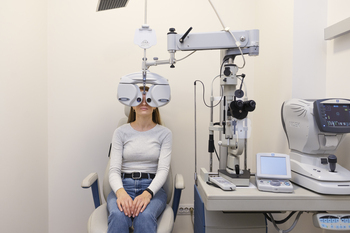
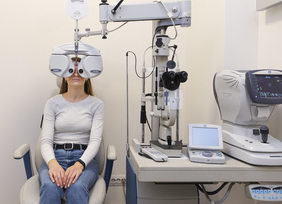
creating media-queries for 576px,768px, and 1200px

diff --git a/pages/index.html b/pages/index.html
@@ -49,16 +49,25 @@
                 </div>
             </div>
         </nav>
+        <!-- Start: Value proposition -->
         <div class="row m-0" id="valueProp-rectangle-1">
-            <div class="col align-self-end">
-                <h3 class="mt-auto" id="valueProp-mainTitle">
+            <div class="col col-12 col-lg-6 order-5 order-lg-first align-self-end ">
+                <h3 id="valueProp-mainTitle">
                     Tu visión, en manos <br />
                     de expertos
                 </h3>
             </div>
+            <div id="valueProp-img-container"
+                class="col col-12 col-lg-6 order-1 order-lg-last d-flex justify-content-center justify-content-lg-start">
+                <img id="valueProp-img-1" class="img-fluid" src="../assets/img/portrait-brother-sister-with-spe.jpg"
+                    alt="Adolescentes con gafas posando delante de un estante de gafas">
+                <img id="valueProp-img-2" class="img-fluid" src="../assets/img/close-up-doctor-checking-woman-e.jpg"
+                    alt="Mujer de piel blanca revisando el ojo de una mujer de piel negra con una maquina de oftalmología">
+            </div>
+
         </div>
         <div class="row m-0" id="valueProp-rectangle-2">
-            <div class="col col-sm-12">
+            <div class="col col-sm-12 d-flex justify-content-center justify-content-lg-start ">
                 <div id="valueProp-explanation">
                     <p>Desde tu cuidado, hasta un buen look, nosotros te ayudaremos a encontrar las
                         gafas perfectas que le dirán
@@ -71,29 +80,23 @@
                 </div>
             </div>
         </div>
-        <div id="valueProp-img-container">
-            <div id="valueProp-img-subContainer">
-                <img id="valueProp-img-1" class="img-fluid" src="../assets/img/portrait-brother-sister-with-spe.jpg"
-                    alt="Adolescentes con gafas posando delante de un estante de gafas">
-                <div id="valueProp-img-roundedImg">
-                    <img id="valueProp-img-2" class="img-fluid" src="../assets/img/close-up-doctor-checking-woman-e.jpg"
-                        alt="Mujer de piel blanca revisando el ojo de una mujer de piel negra con una maquina de oftalmología">
-                </div>
-            </div>
-        </div>
-        <div class="row benefits-container">
-            <div class="col text-end pe-5">
+        <!-- End: Value proposition -->
+
+        <!-- Start: Benefits #1 -->
+        <div class="row m-0 benefits-container">
+            <div class="col col-12 col-md-6 text-center text-md-end">
                 <img class="img-fluid" id="benefits-container-img-1"
                     src="../assets/img/people-with-glasses-collage (2).jpg" alt="Collage de personas con gafas">
             </div>
-            <div class="col ps-5 d-flex flex-column justify-content-center">
+            <div class="col col-12 col-md-6 ps-5 d-flex flex-column justify-content-center">
                 <h5>Tus lentes, tu estilo</h5>
                 <p>Show how your product's features matter, how they set you apart from the competition, and how you can
                     transform your customer's experience at work or at home.</p>
             </div>
         </div>
+        <!-- End: Benefits #1 -->
         <!-- cta: Call  to action-->
-        <div class="row" id="cta-container">
+        <div class="row m-0" id="cta-container">
             <h5 id="cta-title">Algunos de nuestro estilos</h5>
             <div id="product-slider-container" class="product-slider-container d-flex flex-row justify-content-center">
                 <div class="product-card">
@@ -129,28 +132,19 @@
             </div>
             <h6>Encuentra tu estilo ideal</h6>
         </div>
-        <div class="row benefits-container">
-            <div class="col pe-5 d-flex flex-column justify-content-center align-items-end">
+
+        <div class="row m-0 benefits-container">
+            <div
+                class="col col-12 col-md-6 d-flex flex-column justify-content-center align-items-center align-items-lg-end">
                 <h5>Tus lentes, tu estilo</h5>
                 <p>Show how your product's features matter, how they set you apart from the competition, and how you can
                     transform your customer's experience at work or at home.</p>
             </div>
-            <div class="col ps-5 d-flex justify-content-evenly" id="benefit-img-container-1">
+            <div class="col col-12 col-md-6 d-flex justify-content-evenly" id="benefit-img-container-1">
                 <img class="img-fluid" id="benefit-img-1-1" src="../assets/img/doctor-testing-patient-eyesight_.jpg"
-                    alt="Collage de personas con gafas">
+                    alt="Ofaltmologa revisando a pacientes">
                 <img class="img-fluid" id="benefit-img-2-1" src="../assets/img/doctor-testing-patient-eyesight_2.jpg"
-                    alt="Collage de personas con gafas">
-                <!-- <div id="benefit-img-container-1">
-                    <div id="benefit-img-subContainer-1">
-                        <img id="benefit-img-1-1" class="img-fluid"
-                            src="../assets/img/portrait-brother-sister-with-spe.jpg"
-                            alt="Adolescentes con gafas posando delante de un estante de gafas">
-                        <div id="benefit-img-roundedImg">
-                            <img id="benefit-img-2-1" src="../assets/img/close-up-doctor-checking-woman-e.jpg"
-                                alt="Mujer de piel blanca revisando el ojo de una mujer de piel negra con una maquina de oftalmología">
-                        </div>
-                    </div>
-                </div> -->
+                    alt="Persona sentada en maquina para revisión de ojos">
             </div>
         </div>
 

diff --git a/assets/css/style.css b/assets/css/style.css
@@ -3,7 +3,10 @@ html,
 div {
     margin: 0;
     padding: 0;
+    width: 100%;
     font-family: 'Source Sans 3', sans-serif;
+    /* height: 100%; */
+
 }
 
 #brand-text {
@@ -61,37 +64,32 @@ div {
     padding: 8px 8px 8px 8px;
     background: #344871;
     position: relative;
-
 }
 
 #valueProp-img-container {
-    position: absolute;
-    left: 50%;
-    top: 17%;
-}
-
-#valueProp-img-subContainer {
     position: relative;
+    /* left: 50%;
+    top: 17%; */
 }
 
 #valueProp-img-1 {
-    background: #000000;
-    border-radius: 91px 91px 91px;
-    z-index: 2;
-}
-
-#valueProp-img-roundedImg {
     position: absolute;
-    left: 80%;
-    top: 70%;
+    background: #000000;
+    border-radius: 33px 33px 33px 33px;
+    z-index: 2;
+    top: 17%;
 }
 
 #valueProp-img-2 {
+    position: absolute;
     box-shadow: -7px -4px 10px rgba(0, 0, 0, 0.4);
     background: #000000;
     border-radius: 95px 95px 95px 95px;
     z-index: 3;
+    left: 60%;
+    top: 150%;
 }
+
 
 #valueProp-buy-btn {
     width: 117px;
@@ -152,7 +150,7 @@ div {
     text-align: left;
 }
 
-.benefits-container-img-1 {
+#benefits-container-img-1 {
     background: #000000;
     border-radius: 29px 29px 29px 29px;
 }
@@ -255,12 +253,181 @@ div {
 
 #benefit-img-2-1 {
     position: absolute;
-    width: 354px;
-    height: 199px;
     box-shadow: 9px -3px 12px rgba(0, 0, 0, 0.4);
     background: #000000;
     border-radius: 18px 18px 18px 18px;
     z-index: 3;
     top: 35%;
     right: 50%;
+}
+
+
+
+/* Media query for phones */
+@media (max-width:1200px) {
+    #valueProp-rectangle-2 {
+        height: 220px;
+        /* padding: 8px 8px 8px 120px; */
+        padding: 8px 8px 8px 8px;
+        background: #344871;
+        position: relative;
+    }
+
+    #valueProp-img-1 {
+        width: 400px;
+    }
+
+    #valueProp-img-2 {
+        width: 160px;
+        top: 100%;
+        left: 57%;
+    }
+
+    .benefits-container>div>h5 {
+        width: 280px;
+    }
+
+    .benefits-container>div>p {
+        width: 280px;
+    }
+
+    #benefits-container-img-1 {
+        width: 380px;
+    }
+
+    #benefit-img-1-1 {
+        width: 250px;
+        top: 0;
+        right: 15%;
+    }
+
+    #benefit-img-2-1 {
+        width: 190px;
+        height: 132px;
+        top: 25%;
+        right: 50%;
+    }
+
+}
+
+@media (max-width:768px) {
+    #valueProp-rectangle-1 {
+        height: 480px;
+        /* padding: 8px 8px 8px 120px; */
+        padding: 8px 8px 8px 8px;
+    }
+
+    #valueProp-rectangle-2 {
+        height: 220px;
+        /* padding: 8px 8px 8px 120px; */
+        padding: 8px 8px 8px 8px;
+        background: #344871;
+        position: relative;
+    }
+
+    #valueProp-img-1 {
+        width: 400px;
+    }
+
+    #valueProp-img-2 {
+        width: 160px;
+        top: 100%;
+        left: 57%;
+    }
+
+    #valueProp-mainTitle {
+        display: block;
+        width: 100%;
+        height: 89px;
+        text-align: center;
+    }
+
+    #valueProp-explanation {
+        width: 500px;
+        height: 82px;
+
+    }
+
+    .benefits-container>div>h5 {
+        width: 280px;
+    }
+
+    .benefits-container>div>p {
+        width: 280px;
+    }
+
+    #benefits-container-img-1 {
+        width: 340px;
+    }
+
+    #benefit-img-1-1 {
+        width: 220px;
+        top: 0;
+        right: 5%;
+    }
+
+    #benefit-img-2-1 {
+        width: 180px;
+        height: 128px;
+        top: 25%;
+        right: 45%;
+    }
+
+}
+
+@media (max-width:576px) {
+    #valueProp-rectangle-1 {
+        height: 470px;
+        padding: 8px 8px 8px 8px;
+    }
+
+    #valueProp-rectangle-2 {
+        height: 220px;
+        padding: 8px 8px 8px 8px;
+        background: #344871;
+    }
+
+    #valueProp-mainTitle {
+        font-size: 31px;
+    }
+
+    #valueProp-img-1 {
+        width: 340px;
+    }
+
+    #valueProp-img-2 {
+        width: 140px;
+        top: 95%;
+        left: 54%;
+    }
+
+    #benefits-container-img-1 {
+        width: 290px;
+    }
+
+    .benefits-container>div {
+        padding: 15px 0px 15px 0px;
+    }
+
+
+    .benefits-container>div>h5 {
+        width: 250px;
+    }
+
+    .benefits-container>div>p {
+        width: 250px;
+    }
+
+    #benefit-img-1-1 {
+        width: 200px;
+        top: 5%;
+        right: 17%;
+    }
+
+    #benefit-img-2-1 {
+        width: 160px;
+        top: 25%;
+        right: 47%;
+        border-radius: 95px 95px 95px 95px;
+    }
 }
